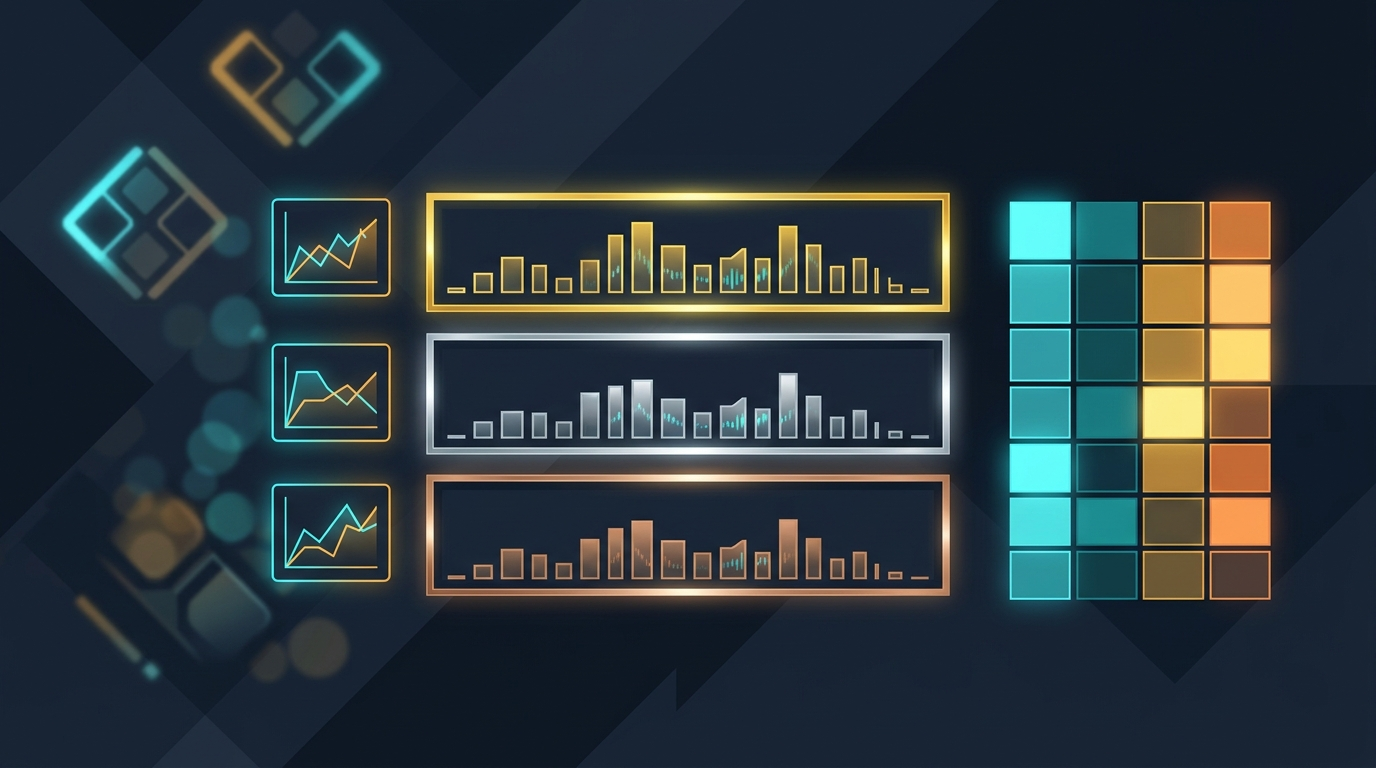
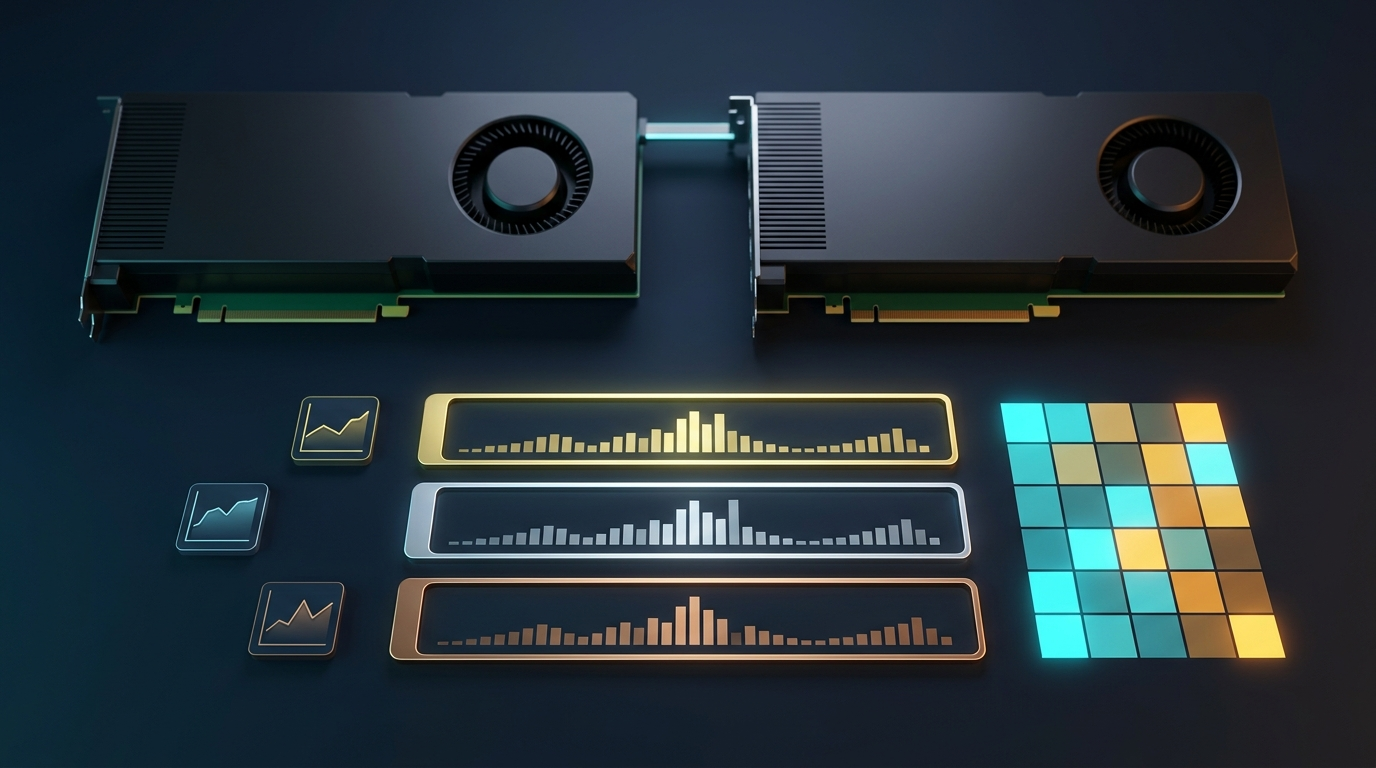
docs(images): final polish — fix studies_index arrow colors + sota_leaderboard GPUs
Two targeted regenerations to eliminate all caveats from the previous refresh:

studies_index.png (v3 -> v5, finally 10/10):
- v3 had arrow 3 (magenta->lime) ending in amber instead of lime
- v4 attempt fixed colors but Gemini interpreted prompt directional words
  ('LEFT', 'RIGHT', 'AMBER', etc.) as literal labels and rendered them as
  visible English text on the tile tabs and arrow markers
- v5 rewrote the prompt to describe positions abstractly ('first/final tile',
  'sequence', 'neighboring tiles') with an explicit comprehensive ban list
  including alphabetic markers, color name text, position words, and pseudo-text
  stripes. QA confirms zero text artifacts and all 4 arrow gradients correct.

sota_leaderboard.png (v3 -> v4, 10/10):
- v3 rendered the GPUs correctly but added smudged 'NVIDIA' pseudo-logos on
  the shrouds (AI-slop branding attempt)
- v4 prompt drops the 'NVIDIA' brand reference, requests generic data-center
  GPUs, and explicitly bans printed markings, brand names, badges, and
  smudged glyphs on the shrouds. QA confirms completely blank matte-black
  shrouds with all hardware detail (fans, fins, PCB, bridge) preserved.

Old versions preserved in docs/images/archive/ across all iterations
(v1, v2, v3, v4 where applicable).

diff --git a/docs/gen_images.py b/docs/gen_images.py
@@ -38,35 +38,69 @@ PROMPTS = {
         "NO EMPTY CALLOUT BOXES, NO SPEECH BUBBLES."
     ),
     "studies_index": (
-        "A wide 16:9 horizontal infographic illustration of a research studies index. A "
-        "glowing horizontal timeline runs from left to right across the image, with 5 "
-        "distinct study cards anchored along it at evenly-spaced positions. Each card is "
-        "stylized as a translucent glass folder or report tile, with a different colored "
-        "tag at its top (cyan, amber, magenta, lime, violet from left to right) and small "
-        "abstract chart silhouettes inside (bar charts, line plots, scatter dots). The "
-        "cards progressively gain visual richness left-to-right — the leftmost is simple, "
-        "the rightmost is most elaborate — suggesting cumulative depth. Connecting glowing "
-        "line traces flow between cards along the timeline, with small data-point sparks "
-        "traveling along them. The rightmost card has a subtle green checkmark seal in "
-        "its corner, suggesting it's the production-validated outcome. Deep navy backdrop, "
-        "neon technical aesthetic with electric cyan + amber + lime accents. AVOID any "
-        "letters, numerals, or text-like glyphs — use only pure geometric shapes. "
-        "ABSOLUTELY NO TEXT, NO LETTERS, NO NUMBERS, NO LOGOS, NO WATERMARKS, NO LABELS."
+        "A wide 16:9 horizontal infographic illustration showing a horizontal sequence of "
+        "five glowing translucent glass folder tiles, anchored along a glowing horizontal "
+        "timeline line that runs across the full width of the image. Each tile has a "
+        "thin colored band of light glowing at the top of its rounded rectangular shape "
+        "(this band is the tile's color identity, NOT a label). The five tiles' top-band "
+        "colors, in their order along the timeline, are: electric cyan, warm amber, hot "
+        "magenta, lime green, deep violet. The five tile interiors contain only pure "
+        "abstract geometric chart silhouettes (vertical bars, plotted dots, smooth line "
+        "curves, scatter clouds). Each tile's interior is progressively richer than the "
+        "previous one in the sequence — the first tile has a single simple bar chart, the "
+        "final tile has a complex layered combination of bars, lines, and dots. "
+        "Four glowing connecting arrows flow along the timeline between adjacent tiles, "
+        "each arrow rendered as a smooth color gradient that matches its two neighboring "
+        "tiles: arrow 1 fades cyan into amber, arrow 2 fades amber into magenta, arrow 3 "
+        "fades magenta into lime green (its arrowhead is PURE LIME GREEN where it meets "
+        "the lime tile, never any other color), arrow 4 fades lime green into violet. "
+        "Small bright data-point sparks travel along the arrows. The final (violet) tile "
+        "has a small glowing lime-green checkmark seal in its bottom-right corner. "
+        "Deep navy and charcoal background with a soft technical grid pattern, neon "
+        "aesthetic. Tile interiors must contain ONLY chart shapes (bars, dots, lines, "
+        "ticks, scatter points). "
+        "DO NOT add any of the following anywhere in the image: "
+        "  - readable words, letters, alphabet characters, numerals, or digits "
+        "  - color names or position words rendered as visible writing "
+        "  - tab labels, folder labels, file names, or caption text "
+        "  - alphabetic markers on the arrows (no A, B, C, D, no Roman numerals) "
+        "  - horizontal stripes, bars, or dashed rows inside tiles that resemble text "
+        "  - watermarks, logos, brand names, or printed badges "
+        "  - smudged glyphs or pseudo-text squiggles "
+        "  - empty rectangles or callout boxes that look like missing labels "
+        "Every surface that could carry text must instead be a clean blank color band or "
+        "a pure geometric chart silhouette. The image must be 100% wordless."
     ),
     "sota_leaderboard": (
         "A clean cinematic 16:9 illustration of a leaderboard / SOTA scoreboard for ML "
-        "inference benchmarks. Centered: three horizontal podium-style bars stacked "
-        "vertically, each glowing a different metallic accent (gold on top, silver in "
-        "middle, bronze at bottom), each bar with stylized abstract bar-chart silhouettes "
-        "flowing inside it as if it contains live data. To the right of the podium, a "
-        "medium-size grid of comparison heatmap cells glows with varying cyan-to-amber "
-        "intensities. To the left, three small floating result tiles hover with mini line "
-        "plots inside. In the background, a soft bokeh of dual Blackwell-class GPUs hints "
-        "at the hardware platform. Deep navy and charcoal cinematic background, neon cyan "
-        "and amber highlights as primary accents, metallic gold/silver/bronze on the podium "
-        "bars. Modern data-visualization poster aesthetic, sharp and precise. AVOID any "
-        "letters, numerals, or text-like glyphs — use only pure geometric shapes. "
-        "ABSOLUTELY NO TEXT, NO LETTERS, NO NUMBERS, NO LOGOS, NO WATERMARKS, NO LABELS."
+        "inference benchmarks running on dual data-center GPUs. Centered: three horizontal "
+        "podium-style bars stacked vertically, each glowing a different metallic accent "
+        "(gold on top, silver in middle, bronze at bottom), each bar with stylized "
+        "abstract bar-chart silhouettes flowing inside it as if it contains live data. "
+        "To the right of the podium, a medium-size grid of comparison heatmap cells glows "
+        "with varying cyan-to-amber intensities. To the left, three small floating result "
+        "tiles hover with mini line plots inside. In the BACKGROUND (in soft depth-of-field "
+        "bokeh, but still CLEARLY recognizable as actual GPU hardware), there are TWO "
+        "generic high-end server GPU cards visible. Each GPU is a long rectangular "
+        "dual-slot PCIe card with a dark matte-black metallic shroud, a large circular "
+        "blower-style cooling fan visible at one end of each card, fine parallel "
+        "heat-sink fin lines along the side, and a thin green/black printed circuit board "
+        "edge at the bottom with subtle gold-colored PCIe contact teeth. The two GPU "
+        "cards sit side-by-side, connected by a thin glowing horizontal bridge connector "
+        "spanning their tops. CRITICAL: The GPU shrouds must be COMPLETELY BLANK — NO "
+        "brand names, NO manufacturer logos, NO product names, NO model numbers, NO "
+        "vents shaped like letters, NO printed badges, NO stickers, NO smudged glyphs that "
+        "resemble text or logos. The shroud surface should be plain dark metal with only "
+        "the cooling fan cutout, fin pattern, and PCB edge visible. Render them with "
+        "realistic hardware detail (shroud, fan, fins, PCB, bridge) but with NO printed "
+        "markings of any kind on any surface. "
+        "Deep navy and charcoal cinematic background, neon cyan and amber highlights as "
+        "primary accents, metallic gold/silver/bronze on the podium bars. Modern "
+        "data-visualization poster aesthetic, sharp and precise on the foreground podium "
+        "and tiles, soft bokeh on the GPU hardware. AVOID any letters, numerals, or "
+        "text-like glyphs anywhere — use only pure geometric shapes for charts. "
+        "ABSOLUTELY NO TEXT, NO LETTERS, NO NUMBERS, NO LOGOS, NO BRAND NAMES, NO "
+        "WATERMARKS, NO LABELS, NO PRINTED BADGES, NO SMUDGED PSEUDO-LOGOS."
     ),
 }
 
